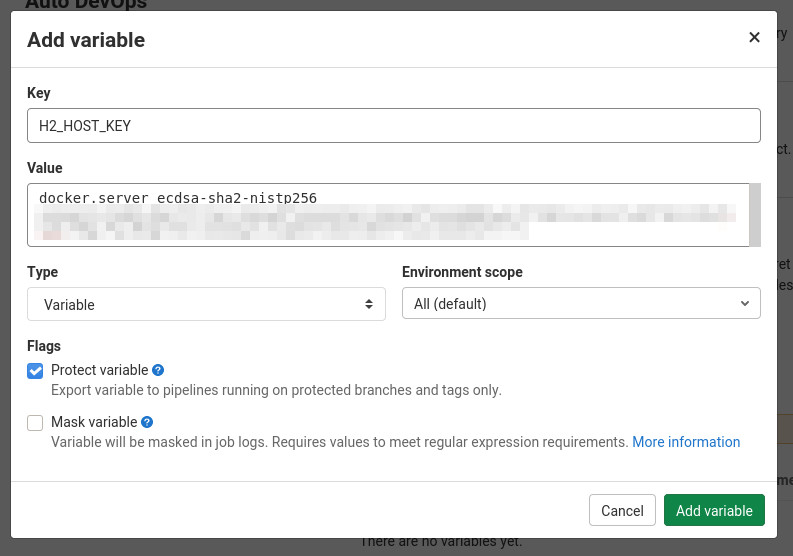
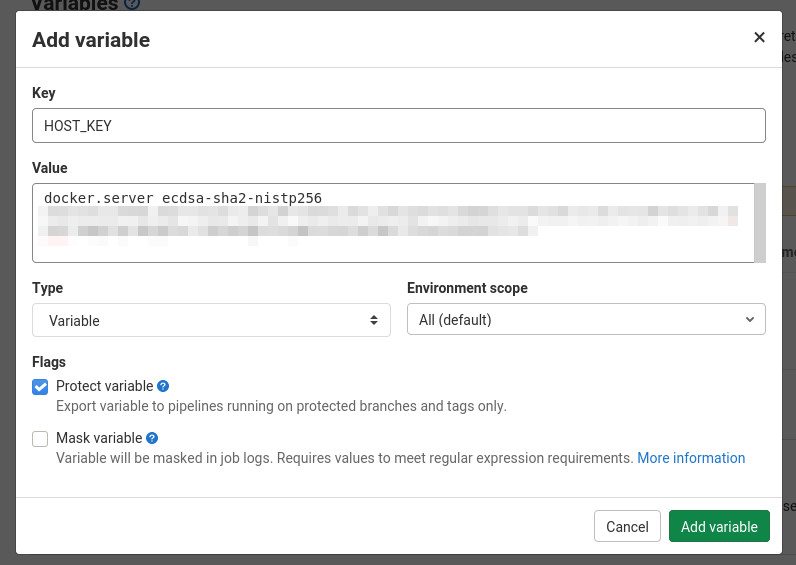
Update infrastructure with docker and gitlab

diff --git a/infrastructure-with-docker-and-gitlab.md b/infrastructure-with-docker-and-gitlab.md
@@ -1,40 +1,45 @@
-# Setup and maintain Infrastructure with Docker and GitLab
+# Set up and maintain Infrastructure with Docker and GitLab
 
 __Sven Haardiek, 2020-10-09__
 
 Companies and Organization need different services for their daily work.
-Things like chat systems to communicate or Wikis or very basic things like DNS or DHCP server.
+Things like chat systems to communicate, wikis or very basic services like DNS or DHCP.
 
-In smaller companies and organization those services are often setup and maintained manually, since automation would mean an initial overhead.
+In smaller companies and organization those services are often set up and maintained manually, since automation would mean an initial overhead of work.
 
-I want to show a simple kind of automatic setup using [Docker](https://www.docker.com/) and [GitLab](https://about.gitlab.com/) as the base.
-Both are Open Source and easy to setup.
-Furthermore Docker is a [OS-level virtualization](https://en.wikipedia.org/wiki/OS-level_virtualization) with very little overhead and GitLab is even available as a [Software as a Service](https://en.wikipedia.org/wiki/Software_as_a_service) and for small amount of work also at no charge.
+I want to show a simple kind of automatic setup using the Open Source Tools [Docker](https://www.docker.com/) and [GitLab](https://about.gitlab.com/) as the base.
 
-## Prerequities
+Docker is a very lightweight [OS-level virtualisation](https://en.wikipedia.org/wiki/OS-level_virtualization) with very little overhead.
+It is very easy for different services to share the resources of a single Docker server and it is pretty easy to define [infrastructure as code](https://en.wikipedia.org/wiki/Infrastructure_as_code) by using [Dockerfiles](https://docs.docker.com/engine/reference/builder/) and [Docker Compose](https://docs.docker.com/compose/).
+
+*GitLab is a web-based DevOps lifecycle tool that provides a Git-repository manager providing wiki, issue-tracking and continuous integration and deployment pipeline features* ([Wikipedia](https://en.wikipedia.org/wiki/GitLab)).
+It is the perfect match to Docker, since we can use it as the storage of our configuration and as our continuous Deployment tool.
+GitLab is even available as a [Software as a Service](https://en.wikipedia.org/wiki/Software_as_a_service) and for small amount of work also free of charge, see [GitLab.com](https://gitlab.com).
+
+## Prerequisites
 
 Obviously you need a server with the [Docker Engine](https://docs.docker.com/engine/) installed.
 This will be the workhorse were all the services will run.
 I refer to the [Docker Installation Guide](https://docs.docker.com/engine/install/) for further instruction.
 During this article we will use `docker.server` as the DNS name for this server.
 
-Later we will using [SSH](https://en.wikipedia.org/wiki/Ssh_(Secure_Shell)) to the Docker server ([TLS](https://en.wikipedia.org/wiki/Transport_Layer_Security) is also possible).
-So you need a user on the server who can connect via SSH with a key pair and is also in the `docker` group.
-We will use the user `docker` in this guide.
+Later we will using [SSH](https://en.wikipedia.org/wiki/Ssh_(Secure_Shell)) to connect the Docker server, since most of the time we are already using it for administration and need to set it up anyway.
+We will need a user on the server who can connect to the docker server via SSH with a key pair and is also in the `docker` group.
+We will call the user `docker` in this article.
 
 Next to this server you will need a [GitLab](https://about.gitlab.com/) instance and a [GitLab Runner](https://docs.gitlab.com/runner/).
-It is possible to use a self-hosted GitLab instance or use the [SaaS Version on gitlab.com](https://gitlab.com).
+It is possible to use a self-hosted GitLab instance or use the [SaaS Version on GitLab.com](https://gitlab.com).
 The same is true for the GitLab Runner.
-You can either setup your own and connect it to GitLab or use the pool of free runner from gitlab.com.
+You can either set up your own and connect it to GitLab or use the pool of free runner from GitLab.com.
 It has to be possible for the runner to access the Docker server via SSH in some way.
-They can run in the same network, can be both connected to the internet or they can use some kind of SSH jumphost.
+They can run in the same network, can be both connected to the internet or they can use some kind of SSH jump host.
 This does have some security implication you always should be considering.
 
 ## The Setup
 
-Since our imaginary organization wants to publish some services for their employees, we are using the reverse [nginx](https://www.nginx.com/) as an example service to setup.
+So let's use the reverse proxy [nginx](https://www.nginx.com/) as an example service to set up.
 
-So we are creating a new repository on our GitLab instance for our nginx service.
+First of all we create a new repository on our GitLab instance for our nginx service.
 
 This repository will contain the nginx configuration `nginx.conf`, which we will not describe any further, a `Dockerfile` and `docker-compose.yml` for the service setup on the Docker server and a `.gitlab-ci.yml` for the automatic deployment and maintainance.
 
@@ -44,19 +49,20 @@ The generell workflow for the GitLab CI will be the following:
 
 ### Docker
 
-So first lets take a look a the `Dockerfile`:
+So first lets take a look at the `Dockerfile`:
 
 ```docker
 FROM nginx:latest
 COPY nginx.conf /etc/nginx/
 ```
 
-Of course it is possible to add more that a single configuration file to the new image, e.g. splitted vhost configurations or TLS certificates, but the concept would be the same.
+Of course it is possible to add more than a single configuration file to the new image, e.g. splitted vhost configurations or TLS certificates, but the concept would be the same.
+Is would also be possible to install additional software or do any other kind of changes to the image we will use as a base.
 
 But why do we create a new image instead of mounting the configuration to the nginx Docker image?
 Well, we will deploy this remote via SSH so we can not mount the configuration file, since it does not exist on the remote server.
 
-Okay so after we know how to create the `Dockerfile`, let's take a look at the `docker-compose.yml`
+So after we know how our base image will look like, let's take a look at the `docker-compose.yml`
 
 ```yml
 ---
@@ -70,13 +76,13 @@ services:
       - 443:443
 ```
 
-We stripped this confiration down to the essential things.
-Nginx needs to be accessable from the outside, so we have to map the ports `80` and `443`.
-Also we use the [build](https://docs.docker.com/compose/compose-file/compose-file-v2/#build) keyword to automatically build the Docker image.
+We stripped this configuration down to the essential things.
+Nginx needs to be accessible from the outside, so we have to map the ports `80` and `443`.
+Also we use the [build](https://docs.docker.com/compose/compose-file/compose-file-v2/#build) keyword to automatically build the Docker image defined by the `Dockerfile`.
 
 For more complex services the `docker-compose.yml` can of course consist of multiple services, mount some volumes (remember relative path are not possible) and so on.
 
-So now we have a docker service setup, which we can also test locally with the `docker` and `docker-compose` command line tools, but our ultimate goal is to automate the process of deploying new configuration and doing updates, so let's talk about the CI itself.
+So now we have a docker service setup, which we could deploy manually on the Docker server using the `docker` and `docker-compose` command line tools, but our ultimate goal is to automate the process of deploying new configuration and doing updates, so let's talk about the CI itself.
 
 ### GitLab CI
 
@@ -89,7 +95,7 @@ First the host key
 
 ![Host Key](images/infrastructure-with-docker-and-gitlab/host-key.jpg)
 
-and then the private ssh key
+And then the private ssh key
 
 ![Private Key](images/infrastructure-with-docker-and-gitlab/private-key.jpg)
 
@@ -102,14 +108,15 @@ Let's take a look at the `gitlab-ci.yml`
 deploy:
   stage: deploy
   image: docker:stable
-  # Only deploy new configuration from the master
+  # Only deploy from the master
   only:
     - master
   before_script:
-    # Install prerequites.
+    # Install prerequisites
     # We need the docker client, docker-compose and an ssh client
     - apk --no-cache add openssh-client python3 python3-dev py3-pip libffi-dev openssl-dev gcc libc-dev make
     - pip3 install --no-cache-dir docker-compose
+
     #############################################
     # Setup the connection to the Docker Server #
     #############################################
@@ -118,8 +125,8 @@ deploy:
     - echo "$HOST_KEY" >> ~/.ssh/known_hosts
     - cp "$SSH_KEY" ssh_key
     - chmod 600 ssh_key
-    # Tunnel the docker socket through a SSH connection
-    - ssh -i ssh_key -nNT -L /docker.sock:/var/run/docker.sock docker@<docker.server> &
+    # Tunnel the docker socket through an SSH connection
+    - ssh -i ssh_key -nNT -L /docker.sock:/var/run/docker.sock docker@docker.server &
     # Configure the docker client to use the tunneled docker socket
     - export DOCKER_HOST=unix:///docker.sock
     # Test it (it can take some time for ssh client to connect)
@@ -145,26 +152,38 @@ For more information take a look at the [GitLab CI Documentation](https://docs.g
 
 I would also like to point out some improvements, I have done to this in production.
 
-* To speed up the whole setup, I created an image with the prerequisites installed and deployed it on [quay.io]()
-* Sometime regular images are used in the `docker-compose.yml` and update them also, I use
+* To speed up the whole setup, I created an image with the prerequisites installed and deployed it on [Quay.io](https://quay.io/repository/iotec-gmbh/docker-deploy).
+* Sometimes regular images are also used in the `docker-compose.yml` and to update them too, I use
 
   ```yml
   - docker-compose pull
   - docker-compose build --no-cache --pull
   ```
 
-  at the beginning of `scipt:`.
-* Configuration files sometimes contain sensible information. If that is the case, I substite them in the config with a placeholder, store the real value in the in the GitLab Variables and replace them in `script:` with something like
+  at the beginning of `script`.
+* Configuration files sometimes contain sensible information. If that is the case, I substitute them in the configuration with a placeholder, store the real value in the in the GitLab Variables and replace them in `script` with something like
 
   ```yml
   - sed -i "s/SECRET/$SECRET/" configuration-file
   ```
+* Some services, like nginx, have configuration file checker included.
+  Using those checker help to find errors in the configuration before the new service is deployed.
+  For example for nginx, I use
 
-So now everytime we push something to the master, it is automatically deployed on our Docker server.
+  ```yml
+  - docker-compose run --rm nginx nginx -t
+  - docker-compose up --detach
+  ```
+
+  So the deployment would fail on broken configuration files **before** the deployment step.
+
+So now every time we push something to the master, it is automatically deployed on our Docker server.
+Configuration updates are as easy as a `git push`.
+Collaboration is much easier, since people can create merge requests and the changes are automatically deployed when merged.
 
 ### Keep everything up to date
 
-It is great to be able to publish changes quickly, but another big problem in small organizations is to keep everything up to date.
+It is great to be able to publish changes quickly, but another big problem is to keep everything up to date.
 Once a service is running nobody cares anymore and it becomes outdated.
 You will never get new features and have a potential security problem.
 
@@ -175,13 +194,15 @@ So let's create a new schedule
 ![Schedule](images/infrastructure-with-docker-and-gitlab/schedule.png)
 
 
-This will run our pipeline once a week and since we pull the latest image everytime the image will be up to date.
+This will run our previously defined CI job once a week and since we pull the latest image every time the service will be up to date.
 
 Of course this creates a new problem, since the service can break during the update, but in a small organization, I personally rather use up to date software and have to fix it sometimes, than working with old legacy software for a long time.
-Also some upstream docker image have some kind of patch level tagging in place with which you can minimize the risc.
+Also some upstream docker image have some kind of patch level tagging in place with which you can minimize the risk.
 
 
 ## Conclusion
 
-Personally, I think automation is great and reduces workload, especially boring workload, in companies and organization and using Docker and GitLab is pretty simple to use and do not require a lot of overhead.
-I uses it for nearly 3 years now and I am pretty happy with it.
+Personally, I think automation is great and reduces workload, especially boring workload, in companies and organization and using Docker and GitLab is pretty simple and do not require a lot of overhead.
+Infrastructure as Code is much easier to maintain and up to date software is more fun.
+
+I use a similar kind of setup for nearly 3 years now and I am pretty happy with it.
